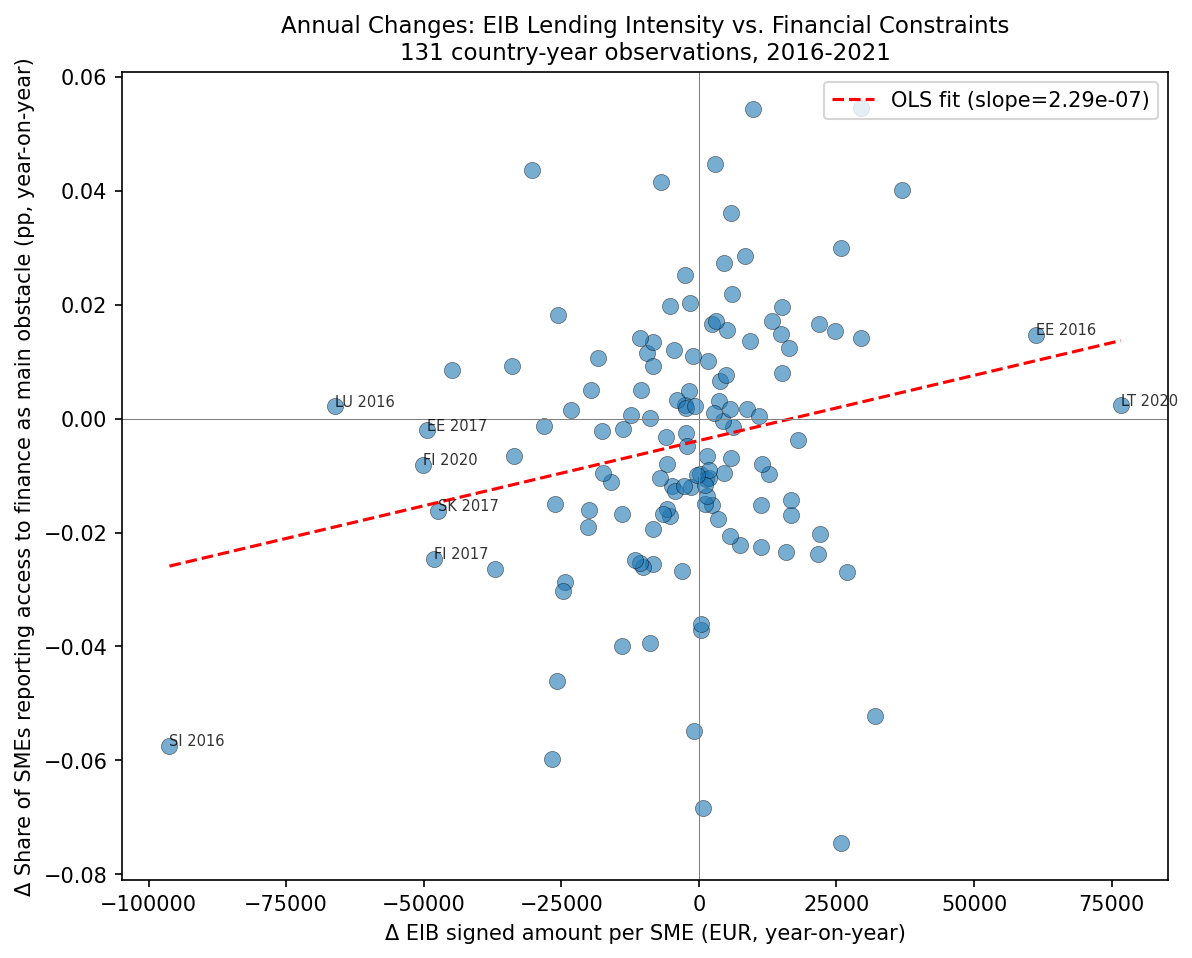
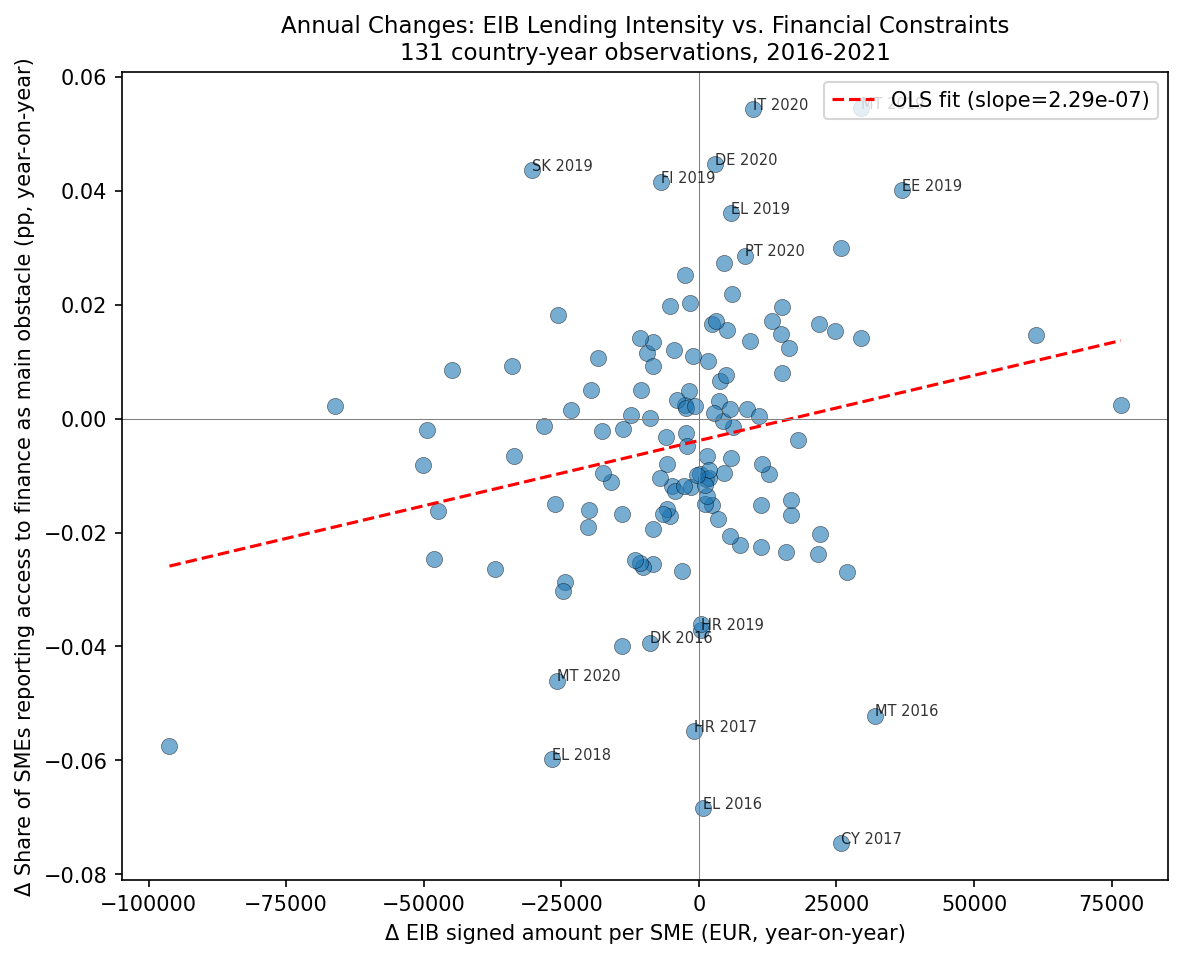
phase1/viz: fix scatter outlier labels to use residuals from OLS trend line, not raw change magnitude

diff --git a/src/viz/descriptives.py b/src/viz/descriptives.py
@@ -110,10 +110,15 @@ def beat2_delta_scatter(panel):
         linewidths=0.3,
     )
 
-    # Label some points (largest changes)
-    df["abs_d"] = df["d_eib_per_sme"].abs() + df["d_constraint"].abs()
-    top_changes = df.nlargest(8, "abs_d")
-    for _, row in top_changes.iterrows():
+    # Label points with largest absolute residuals from OLS fit
+    # (these are the true outliers: they violate the correlation pattern most strongly)
+    z = np.polyfit(df["d_eib_per_sme"], df["d_constraint"], 1)
+    p = np.poly1d(z)
+    df["residual"] = df["d_constraint"] - p(df["d_eib_per_sme"])
+    top_residuals = df.nlargest(8, "residual")
+    bottom_residuals = df.nsmallest(8, "residual")
+    outliers = pd.concat([top_residuals, bottom_residuals]).drop_duplicates()
+    for _, row in outliers.iterrows():
         ax.annotate(
             f"{row['country']} {int(row['year'])}",
             (row["d_eib_per_sme"], row["d_constraint"]),